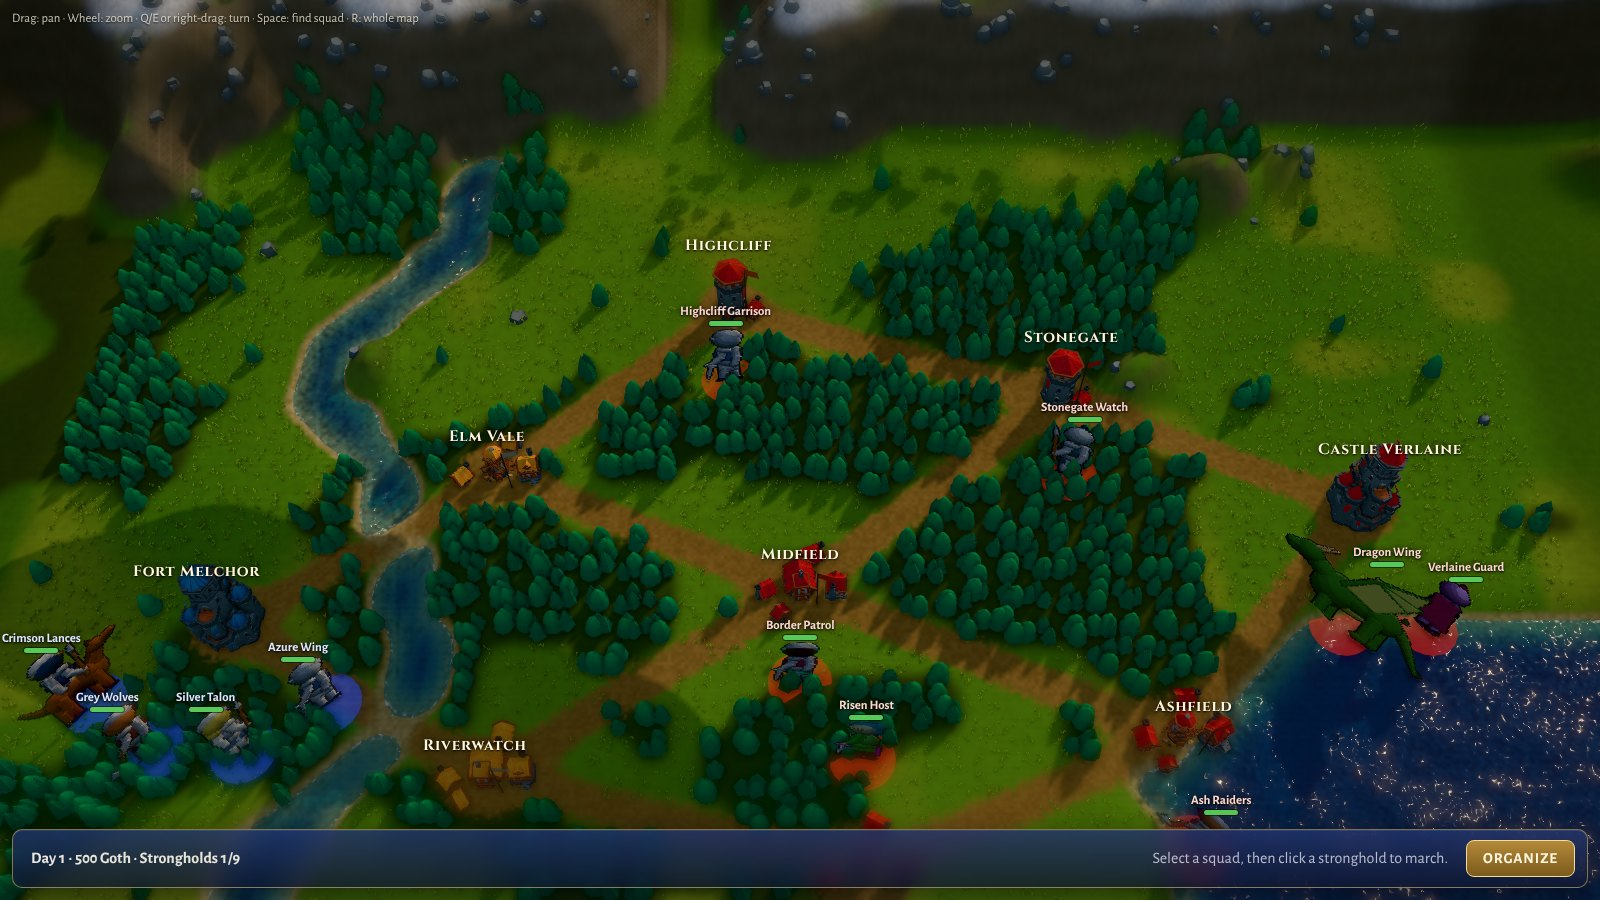
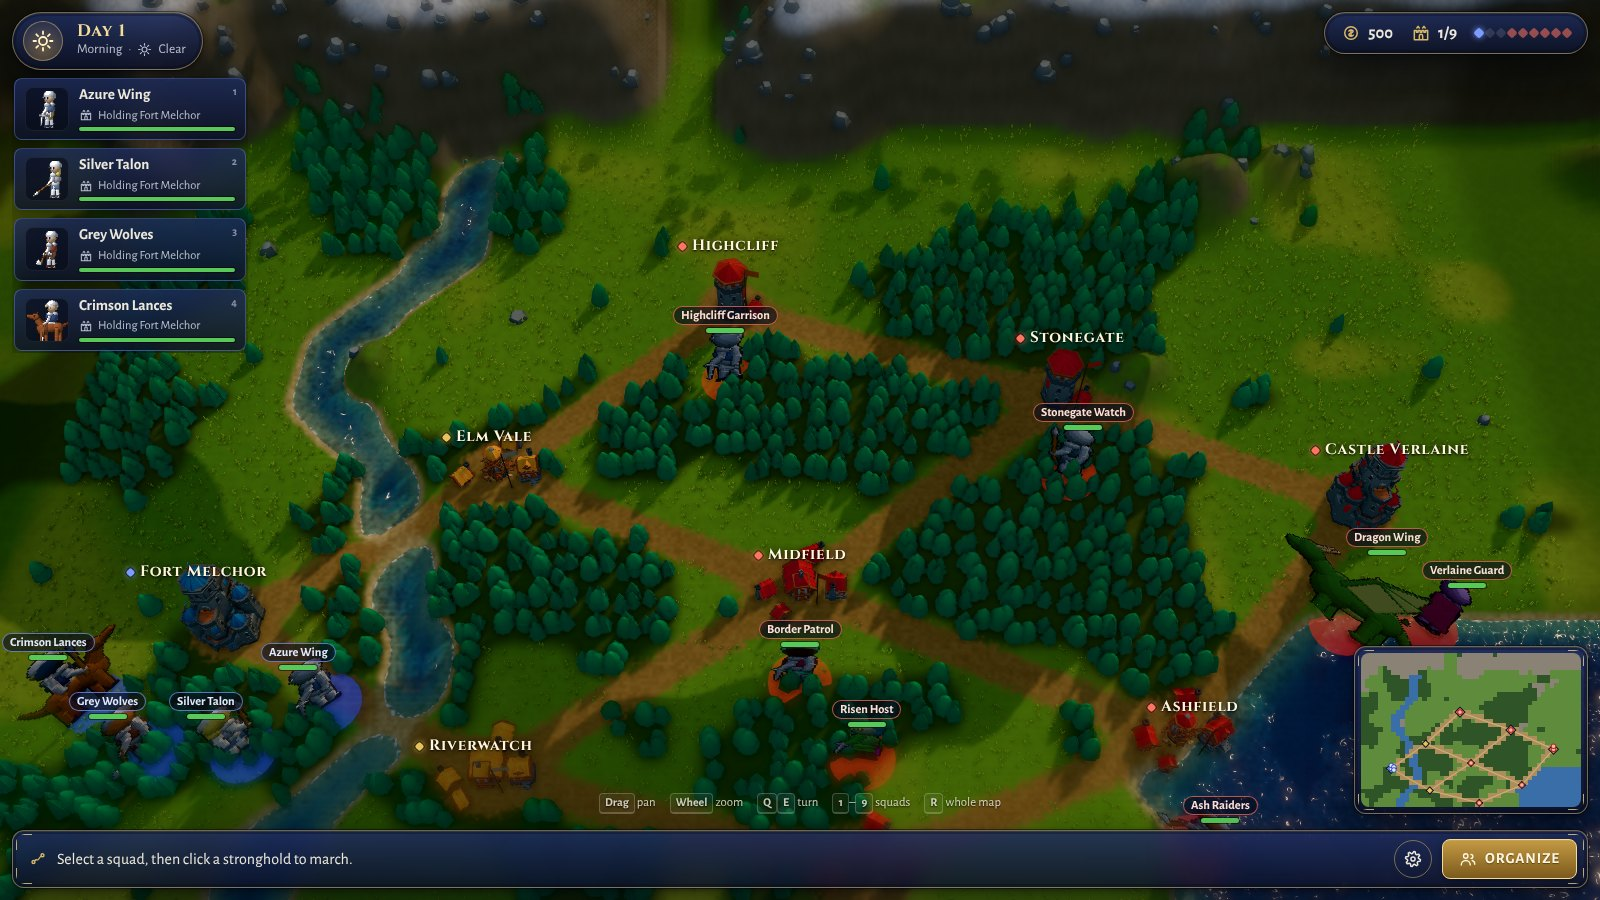
README gallery: the new interface at the High preset
Claude-Session: https://claude.ai/code/session_0198SCbw7ddedgTtmxrn4ErH

diff --git a/README.md b/README.md
@@ -9,11 +9,11 @@ own art appears only when extracted locally from your own ROM (below).
 
 | | |
 |---|---|
-| ![The title screen over the campaign map at evening](docs/screenshots/title.jpg) | ![The whole campaign map on a clear morning](docs/screenshots/map.jpg) |
+| ![The title screen over the campaign map at evening](docs/screenshots/title.jpg) | ![The whole campaign map on a clear morning, with the squads' cards, the day and the small map](docs/screenshots/map.jpg) |
 | ![Fort Melchor and its squads at midday](docs/screenshots/keep.jpg) | ![Elm Vale at evening, the sun low on the river](docs/screenshots/evening.jpg) |
 | ![Midfield in the rain](docs/screenshots/rain.jpg) | ![Elm Vale under snow](docs/screenshots/snow.jpg) |
-| ![A squad's gear on the army screen](docs/screenshots/organize.jpg) | ![A berserker runs in with his axe in a forest clearing](docs/screenshots/battle.jpg) |
-| ![A healer's magic circle and a pillar of green light on a wounded soldier](docs/screenshots/heal.jpg) | ![A shuriken in flight on a shore](docs/screenshots/shore.jpg) |
+| ![A squad's gear on the army screen](docs/screenshots/organize.jpg) | ![A berserker's axe lands in a forest clearing, under each side's card](docs/screenshots/battle.jpg) |
+| ![A healer casts from her magic circle](docs/screenshots/heal.jpg) | ![A shuriken in flight on a shore](docs/screenshots/shore.jpg) |
 
 These show the built-in data at the High preset.
 
